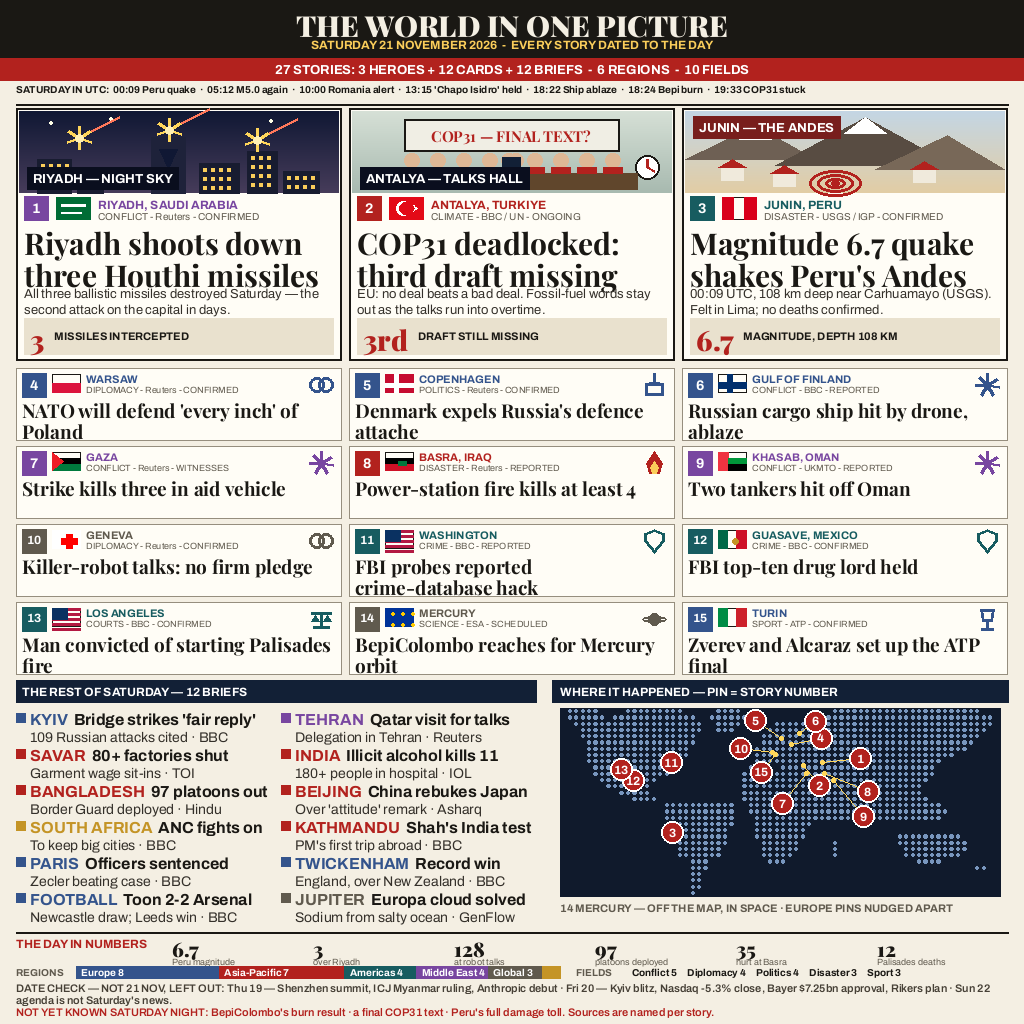
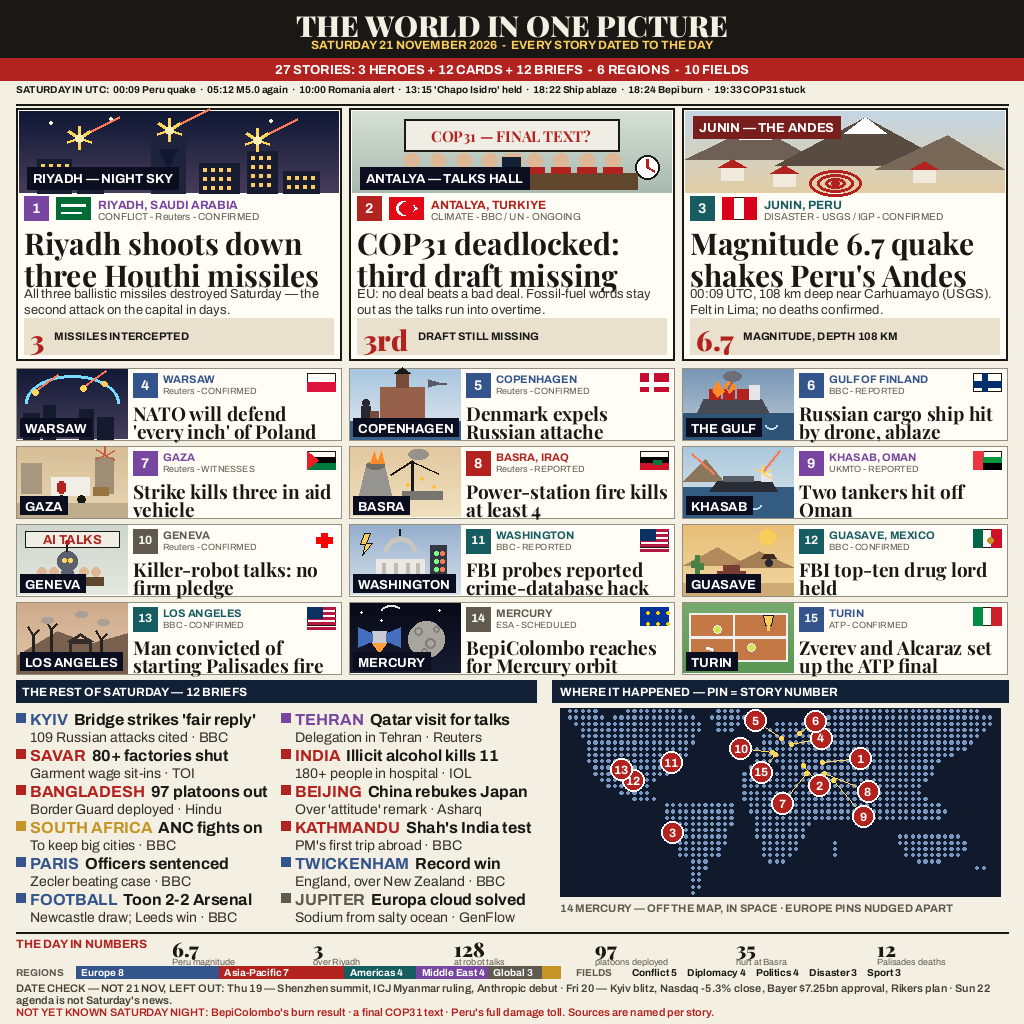
v3.2: every card gets a storytelling scene (>=4 objects + in-scene place label); heroes/map/systems untouched; 27 stories kept

Changed region(s): [[0.0, 0.3438, 1.0, 0.6562]]

diff --git a/draw.py b/draw.py
@@ -69,7 +69,7 @@ CARDS = [
      "Rutte in Warsaw after " + FIG["poland_missiles_down"] + " missiles and "
      "a drone fell on Poland; council meets Monday.", "Reuters", "C"),
     ("COPENHAGEN", "EUR", "Politics",
-     "Denmark expels Russia's defence attache",
+     "Denmark expels Russian attache",
      "A foiled assassination plot is blamed on Russian intelligence; "
      "EU curbs proposed.", "Reuters", "C"),
     ("GULF OF FINLAND", "EUR", "Conflict",
@@ -587,15 +587,17 @@ def main():
         yy0 = cy + (i // 3) * (chh + 6)
         d.rectangle([x, yy0, x + chw, yy0 + chh], fill=(255, 253, 246),
                     outline=(150, 142, 126), width=1)
-        badge(d, x + 6, yy0 + 5, i + 4, region)
-        flag(d, CARD_FLAGS[i], x + 36, yy0 + 6, w=28, h=18)
-        d.text((x + 70, yy0 + 5), place, font=SANS_B(11), fill=REGIONS[region][1])
-        check_h(f"card{i+4} place", place, SANS_B(11), x + 70, x + chw - 38)
-        cmeta = f"{field.upper()} - {src} - {SURE_LABEL[sure]}"
-        d.text((x + 70, yy0 + 17), cmeta, font=SANS(9), fill=MUTE)
-        check_h(f"card{i+4} meta", cmeta, SANS(9), x + 70, x + chw - 38)
-        icon(d, field, x + chw - 32, yy0 + 5, REGIONS[region][1])
-        text_block(d, x + 6, yy0 + 29, head, SERIF(19), INK, chw - 12, 21,
+        CARD_SCENES[i](d, x + 1, yy0 + 1, 110, chh - 2)
+        tx = x + 117
+        badge(d, tx, yy0 + 5, i + 4, region)
+        flag(d, CARD_FLAGS[i], x + chw - 34, yy0 + 5, w=28, h=18)
+        d.text((tx + 30, yy0 + 5), place, font=SANS_B(11),
+               fill=REGIONS[region][1])
+        check_h(f"card{i+4} place", place, SANS_B(11), tx + 30, x + chw - 40)
+        cmeta = f"{src} - {SURE_LABEL[sure]}"
+        d.text((tx + 30, yy0 + 18), cmeta, font=SANS(9), fill=MUTE)
+        check_h(f"card{i+4} meta", cmeta, SANS(9), tx + 30, x + chw - 6)
+        text_block(d, tx, yy0 + 32, head, SERIF(19), INK, chw - 123, 18,
                    max_lines=2, tag=f"card{i}")
     by = cy + 4 * (chh + 6) - 6 + 6
 
@@ -704,6 +706,265 @@ def main():
     img.save(out, optimize=True)
     print("wrote", out, out.stat().st_size, "bytes; stories:", total,
           "; regions:", reg_counts, "; fields:", field_counts)
+
+
+
+# ------------------------------------------------------- card scenes (v3.2)
+# Every card carries a storytelling mini-scene: >= 4 objects that tell
+# the story, plus a place label inside the scene (13px floor). Scenes
+# are 100 x 70, drawn at the card's left; text moves to the right.
+def card_label(d, x, y, w, h, text):
+    tw = d.textlength(text, font=SANS_B(13))
+    d.rectangle([x + 3, y + h - 21, x + 3 + tw + 10, y + h - 3],
+                fill=(10, 14, 30))
+    d.text((x + 8, y + h - 18), text, font=SANS_B(13), fill=(255, 255, 255))
+    H_CHECKS.append((f"card scene label '{text}'",
+                     round((x + 3 + tw + 10) - (x + w - 1), 1)))
+    if x + 3 + tw + 10 > x + w - 1:
+        OVERFLOWS.append(f"H-OVERFLOW card scene label: {text}")
+
+
+def _sky(d, x, y, w, h, top, bot):
+    for yy in range(h):
+        t = yy / max(1, h - 1)
+        c = tuple(int(top[i] + (bot[i] - top[i]) * t) for i in range(3))
+        d.line([x, y + yy, x + w, y + yy], fill=c)
+
+
+def sc_warsaw(d, x, y, w, h):
+    _sky(d, x, y, w, h, (18, 26, 54), (70, 62, 92))
+    for bx, bw, bh in ((6, 16, 26), (26, 12, 34), (62, 14, 30), (80, 16, 22)):
+        d.rectangle([x + bx, y + h - bh, x + bx + bw, y + h], fill=(22, 26, 46))
+    d.arc([x + 8, y + 6, x + w - 8, y + 62], start=180, end=360,
+          fill=(120, 220, 255), width=3)
+    for tx, ty in ((18, 10), (66, 6)):
+        d.line([x + tx + 22, y + ty - 4, x + tx, y + ty + 12],
+               fill=(255, 120, 90), width=2)
+        d.ellipse([x + tx - 3, y + ty + 10, x + tx + 3, y + ty + 16],
+                  fill=(255, 214, 90))
+    d.ellipse([x + 84, y + 12, x + 90, y + 17], fill=(250, 205, 90))
+    card_label(d, x, y, w, h, "WARSAW")
+
+
+def sc_copenhagen(d, x, y, w, h):
+    _sky(d, x, y, w, h, (168, 198, 224), (226, 232, 238))
+    d.rectangle([x + 30, y + 18, x + 74, y + 52], fill=(150, 96, 74))
+    d.rectangle([x + 46, y + 4, x + 58, y + 18], fill=(120, 74, 56))
+    d.polygon([(x + 44, y + 4), (x + 60, y + 4), (x + 52, y - 2)], fill=INK)
+    d.rectangle([x, y + 52, x + w, y + h], fill=(58, 96, 140))
+    for wx in (8, 34, 62, 84):
+        d.arc([x + wx, y + 58, x + wx + 12, y + 66], 0, 180,
+              fill=(200, 220, 240), width=2)
+    d.ellipse([x + 12, y + 30, x + 19, y + 37], fill=(40, 40, 50))
+    d.rectangle([x + 11, y + 37, x + 20, y + 48], fill=(40, 40, 50))
+    d.rectangle([x + 20, y + 42, x + 28, y + 48], fill=(120, 74, 56))
+    d.polygon([(x + 78, y + 10), (x + 92, y + 14), (x + 78, y + 18)],
+              fill=(90, 90, 100))
+    d.line([x + 82, y + 14, x + 96, y + 14], fill=(90, 90, 100), width=2)
+    card_label(d, x, y, w, h, "COPENHAGEN")
+
+
+def sc_finland(d, x, y, w, h):
+    _sky(d, x, y, w, h, (120, 150, 180), (190, 205, 215))
+    d.rectangle([x, y + 44, x + w, y + h], fill=(46, 84, 120))
+    d.polygon([(x + 14, y + 44), (x + 20, y + 30), (x + 78, y + 30),
+               (x + 86, y + 44)], fill=(70, 74, 84))
+    for cx in (26, 40, 54):
+        d.rectangle([x + cx, y + 20, x + cx + 11, y + 30], fill=RED)
+    d.rectangle([x + 66, y + 16, x + 76, y + 30], fill=(230, 230, 230))
+    for fx, fy in ((34, 12), (46, 8)):
+        d.polygon([(x + fx, y + fy), (x + fx + 7, y + fy + 10),
+                   (x + fx, y + fy + 16), (x + fx - 5, y + fy + 9)],
+                  fill=(255, 140, 40))
+    d.ellipse([x + 40, y + 2, x + 58, y + 12], fill=(110, 110, 120))
+    d.line([x + 49, y + 12, x + 44, y + 20], fill=(110, 110, 120), width=2)
+    for wx in (6, 30, 58, 82):
+        d.arc([x + wx, y + 52, x + wx + 12, y + 60], 0, 180,
+              fill=(200, 220, 240), width=2)
+    card_label(d, x, y, w, h, "THE GULF")
+
+
+def sc_gaza(d, x, y, w, h):
+    _sky(d, x, y, w, h, (214, 190, 150), (232, 214, 180))
+    d.rectangle([x + 4, y + 16, x + 24, y + 46], fill=(168, 152, 128))
+    d.rectangle([x + 78, y + 10, x + 96, y + 46], fill=(158, 142, 118))
+    d.rectangle([x + 34, y + 30, x + 72, y + 48], fill=(240, 238, 230))
+    d.rectangle([x + 40, y + 36, x + 48, y + 44], fill=RED)
+    d.rectangle([x + 42, y + 34, x + 46, y + 46], fill=RED)
+    d.ellipse([x + 40, y + 48, x + 48, y + 56], fill=INK)
+    d.ellipse([x + 60, y + 48, x + 68, y + 56], fill=INK)
+    for cx in (76, 84):
+        d.rectangle([x + cx, y + 40, x + cx + 7, y + 48], fill=(150, 116, 62))
+    cx, cy = x + 88, y + 8
+    for dx, dy in ((-9, -5), (0, -9), (9, -5), (-9, 4), (9, 4)):
+        d.line([cx, cy, cx + dx, cy + dy], fill=(200, 90, 60), width=2)
+    d.rectangle([x, y + 56, x + w, y + h], fill=(190, 172, 140))
+    card_label(d, x, y, w, h, "GAZA")
+
+
+def sc_basra(d, x, y, w, h):
+    _sky(d, x, y, w, h, (226, 200, 160), (240, 224, 190))
+    d.polygon([(x + 8, y + 52), (x + 16, y + 18), (x + 34, y + 18),
+               (x + 42, y + 52)], fill=(150, 148, 142))
+    d.ellipse([x + 16, y + 14, x + 34, y + 22], fill=(110, 108, 102))
+    for fx in (20, 27):
+        d.polygon([(x + fx, y + 16), (x + fx + 4, y + 4), (x + fx + 7, y + 16)],
+                  fill=(255, 140, 40))
+    d.line([x + 62, y + 52, x + 62, y + 14], fill=INK, width=3)
+    d.line([x + 62, y + 14, x + 88, y + 26], fill=INK, width=2)
+    d.line([x + 62, y + 14, x + 40, y + 28], fill=INK, width=2)
+    d.rectangle([x + 52, y + 44, x + 92, y + 52], fill=(120, 116, 110))
+    for sx, sy in ((56, 36), (70, 30), (82, 38)):
+        d.ellipse([x + sx, y + sy, x + sx + 3, y + sy + 3], fill=(255, 190, 60))
+    d.ellipse([x + 58, y + 2, x + 78, y + 12], fill=(150, 146, 140))
+    card_label(d, x, y, w, h, "BASRA")
+
+
+def sc_khasab(d, x, y, w, h):
+    _sky(d, x, y, w, h, (170, 200, 220), (222, 230, 234))
+    d.polygon([(x, y + 34), (x + 22, y + 12), (x + 40, y + 34)],
+              fill=(140, 118, 92))
+    d.rectangle([x, y + 40, x + w, y + h], fill=(52, 92, 128))
+    d.polygon([(x + 26, y + 44), (x + 34, y + 34), (x + 88, y + 34),
+               (x + 94, y + 44)], fill=(40, 44, 52))
+    d.rectangle([x + 78, y + 26, x + 88, y + 34], fill=(230, 230, 230))
+    d.rectangle([x + 40, y + 29, x + 70, y + 34], fill=(90, 96, 104))
+    d.line([x + 8, y + 6, x + 30, y + 26], fill=(255, 120, 90), width=2)
+    d.line([x + 96, y + 4, x + 80, y + 24], fill=(255, 120, 90), width=2)
+    cx, cy = x + 80, y + 26
+    for dx, dy in ((-8, -4), (0, -8), (8, -4), (8, 4)):
+        d.line([cx, cy, cx + dx, cy + dy], fill=(255, 214, 90), width=2)
+    for wx in (10, 38, 66):
+        d.arc([x + wx, y + 54, x + wx + 12, y + 62], 0, 180,
+              fill=(200, 220, 240), width=2)
+    card_label(d, x, y, w, h, "KHASAB")
+
+
+def sc_geneva(d, x, y, w, h):
+    _sky(d, x, y, w, h, (206, 214, 206), (228, 232, 222))
+    d.rectangle([x + 8, y + 6, x + w - 8, y + 22], fill=(240, 238, 228),
+                outline=INK, width=1)
+    d.text((x + w // 2, y + 14), "AI TALKS", font=SANS_B(13), fill=RED,
+           anchor="mm")
+    d.ellipse([x + 40, y + 26, x + 60, y + 46], fill=(90, 96, 110))
+    d.line([x + 50, y + 26, x + 50, y + 18], fill=INK, width=2)
+    d.ellipse([x + 48, y + 15, x + 52, y + 19], fill=RED)
+    d.ellipse([x + 45, y + 33, x + 49, y + 37], fill=(255, 214, 90))
+    d.ellipse([x + 51, y + 33, x + 55, y + 37], fill=(255, 214, 90))
+    d.rectangle([x + 44, y + 46, x + 56, y + 52], fill=(90, 96, 110))
+    d.rectangle([x + 14, y + 52, x + 86, y + 60], fill=(96, 70, 44))
+    for hx in (20, 32, 62, 74):
+        d.ellipse([x + hx, y + 42, x + hx + 9, y + 51], fill=(222, 184, 150))
+    card_label(d, x, y, w, h, "GENEVA")
+
+
+def sc_washington(d, x, y, w, h):
+    _sky(d, x, y, w, h, (150, 175, 205), (215, 225, 235))
+    d.rectangle([x + 26, y + 34, x + 74, y + 52], fill=(235, 233, 226))
+    d.arc([x + 34, y + 12, x + 66, y + 40], 180, 360, fill=(200, 198, 190),
+          width=5)
+    d.line([x + 50, y + 10, x + 50, y + 4], fill=INK, width=2)
+    for cx in (32, 44, 56, 66):
+        d.rectangle([x + cx, y + 38, x + cx + 3, y + 50], fill=(190, 188, 180))
+    d.rectangle([x + 80, y + 20, x + 96, y + 52], fill=(52, 56, 66))
+    for ly in (26, 34, 42):
+        d.ellipse([x + 84, y + ly, x + 88, y + ly + 4], fill=(120, 255, 140))
+        d.ellipse([x + 90, y + ly, x + 94, y + ly + 4], fill=(255, 120, 90))
+    d.polygon([(x + 14, y + 8), (x + 20, y + 8), (x + 16, y + 18),
+               (x + 22, y + 18), (x + 12, y + 30), (x + 15, y + 19),
+               (x + 10, y + 19)], fill=(250, 205, 90), outline=INK)
+    card_label(d, x, y, w, h, "WASHINGTON")
+
+
+def sc_guasave(d, x, y, w, h):
+    _sky(d, x, y, w, h, (232, 190, 120), (240, 214, 160))
+    d.ellipse([x + 76, y + 4, x + 92, y + 20], fill=(250, 205, 90))
+    d.polygon([(x, y + 40), (x + 34, y + 22), (x + 64, y + 40)],
+              fill=(178, 138, 92))
+    d.polygon([(x + 44, y + 42), (x + 76, y + 26), (x + w, y + 42)],
+              fill=(164, 126, 84))
+    d.rectangle([x + 12, y + 30, x + 16, y + 48], fill=(70, 130, 70))
+    d.rectangle([x + 8, y + 36, x + 12, y + 42], fill=(70, 130, 70))
+    d.rectangle([x + 16, y + 38, x + 20, y + 44], fill=(70, 130, 70))
+    d.rectangle([x + 34, y + 46, x + 62, y + 54], fill=(120, 60, 50))
+    d.rectangle([x + 40, y + 40, x + 56, y + 46], fill=(120, 60, 50))
+    d.ellipse([x + 38, y + 52, x + 46, y + 60], fill=INK)
+    d.ellipse([x + 52, y + 52, x + 60, y + 60], fill=INK)
+    d.ellipse([x + 82, y + 34, x + 89, y + 41], fill=(40, 40, 50))
+    d.polygon([(x + 78, y + 33), (x + 93, y + 33), (x + 90, y + 29),
+               (x + 81, y + 29)], fill=(60, 44, 30))
+    d.rectangle([x, y + 58, x + w, y + h], fill=(206, 170, 116))
+    card_label(d, x, y, w, h, "GUASAVE")
+
+
+def sc_losangeles(d, x, y, w, h):
+    _sky(d, x, y, w, h, (206, 170, 140), (226, 200, 170))
+    d.polygon([(x, y + 52), (x + 40, y + 28), (x + 74, y + 40),
+               (x + w, y + 30), (x + w, y + h), (x, y + h)],
+              fill=(120, 96, 78))
+    for tx, th in ((16, 26), (34, 32), (84, 22)):
+        d.line([x + tx, y + 58, x + tx, y + 58 - th], fill=(40, 34, 30),
+               width=3)
+        d.line([x + tx, y + 58 - th, x + tx - 5, y + 50 - th],
+               fill=(40, 34, 30), width=2)
+        d.line([x + tx, y + 58 - th, x + tx + 6, y + 52 - th],
+               fill=(40, 34, 30), width=2)
+    d.rectangle([x + 52, y + 38, x + 74, y + 56], outline=(52, 44, 38),
+                width=3)
+    d.polygon([(x + 50, y + 38), (x + 63, y + 30), (x + 76, y + 38)],
+              outline=(52, 44, 38), width=3)
+    for sx, sy in ((24, 14), (58, 8), (80, 16)):
+        d.ellipse([x + sx, y + sy, x + sx + 12, y + sy + 6],
+                  fill=(170, 160, 150))
+    d.polygon([(x + 8, y + 62), (x + 13, y + 52), (x + 18, y + 62)],
+              fill=(255, 140, 40))
+    card_label(d, x, y, w, h, "LOS ANGELES")
+
+
+def sc_mercury(d, x, y, w, h):
+    _sky(d, x, y, w, h, (8, 10, 24), (24, 28, 48))
+    for sx, sy in ((10, 8), (30, 16), (88, 6), (70, 20), (16, 30)):
+        d.ellipse([x + sx, y + sy, x + sx + 2, y + sy + 2],
+                  fill=(255, 255, 230))
+    d.ellipse([x + 58, y + 18, x + 94, y + 54], fill=(168, 164, 158))
+    for cx, cy, r in ((68, 28, 4), (80, 40, 5), (74, 48, 3), (86, 26, 3)):
+        d.ellipse([x + cx - r, y + cy - r, x + cx + r, y + cy + r],
+                  outline=(130, 126, 120), width=2)
+    d.rectangle([x + 22, y + 28, x + 36, y + 40], fill=(200, 204, 210))
+    d.polygon([(x + 8, y + 24), (x + 22, y + 30), (x + 22, y + 38),
+               (x + 8, y + 44)], fill=(70, 110, 190))
+    d.polygon([(x + 36, y + 30), (x + 50, y + 24), (x + 50, y + 44),
+               (x + 36, y + 38)], fill=(70, 110, 190))
+    d.polygon([(x + 22, y + 40), (x + 29, y + 50), (x + 36, y + 40)],
+              fill=(255, 160, 60))
+    d.arc([x + 30, y + 2, x + 52, y + 16], 200, 320, fill=(230, 230, 230),
+          width=2)
+    card_label(d, x, y, w, h, "MERCURY")
+
+
+def sc_turin(d, x, y, w, h):
+    _sky(d, x, y, w, h, (120, 170, 110), (90, 150, 84))
+    d.rectangle([x + 6, y + 10, x + w - 6, y + 58], fill=(196, 120, 70))
+    d.rectangle([x + 6, y + 10, x + w - 6, y + 58], outline=(240, 240, 240),
+                width=2)
+    d.line([x + 50, y + 10, x + 50, y + 58], fill=(240, 240, 240), width=2)
+    d.line([x + 6, y + 34, x + w - 6, y + 34], fill=(240, 240, 240), width=3)
+    d.ellipse([x + 30, y + 22, x + 38, y + 30], fill=(210, 230, 80),
+              outline=(240, 240, 240))
+    d.ellipse([x + 64, y + 40, x + 72, y + 48], fill=(210, 230, 80),
+              outline=(240, 240, 240))
+    d.arc([x + 12, y + 44, x + 34, y + 62], 270, 90, fill=(240, 240, 240),
+          width=3)
+    d.line([x + 30, y + 48, x + 40, y + 56], fill=(150, 100, 60), width=3)
+    d.polygon([(x + 80, y + 12), (x + 90, y + 12), (x + 88, y + 22),
+               (x + 82, y + 22)], fill=(250, 205, 90), outline=INK)
+    d.line([x + 85, y + 22, x + 85, y + 27], fill=(250, 205, 90), width=3)
+    card_label(d, x, y, w, h, "TURIN")
+
+
+CARD_SCENES = [sc_warsaw, sc_copenhagen, sc_finland, sc_gaza, sc_basra,
+               sc_khasab, sc_geneva, sc_washington, sc_guasave,
+               sc_losangeles, sc_mercury, sc_turin]
 
 
 if __name__ == "__main__":
